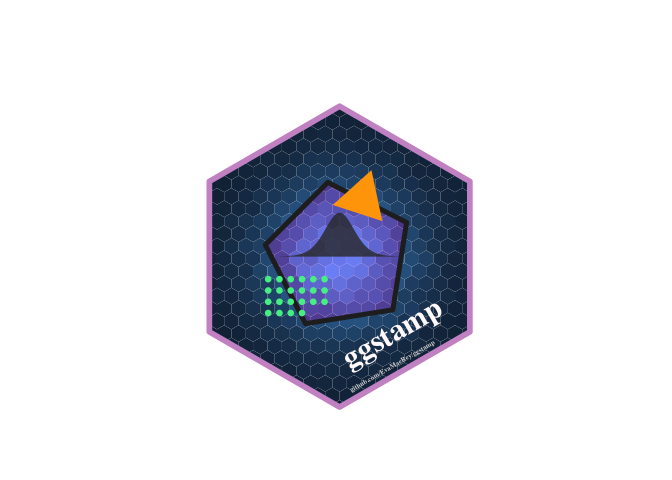
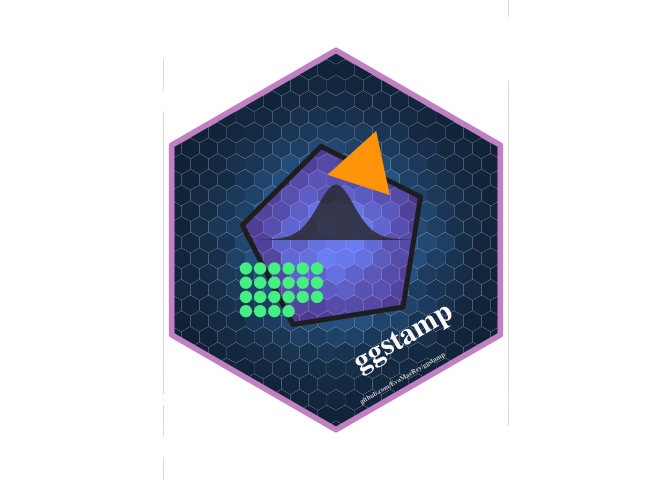
update readme

Changed region(s): [[0.25, 0.0938, 0.75, 0.9062]]

diff --git a/README.md b/README.md
@@ -91,9 +91,9 @@ tibble::tibble(x = rnorm(40000, sd = .7),
   ggplot() + 
   aes(x = x, y = y) +
   geom_hex(show.legend = F, color = alpha("white", 0)) + 
-  coord_equal() + 
-  stamp_polygon_inverse(radius = 2, radius_outer = Inf
-                        ) + 
+  coord_equal(xlim = c(-1.65,1.65), ylim = c(-2.3, 2.3)) + 
+  stamp_polygon_inverse(radius = 2, radius_outer = Inf, fill = "white"
+                        ) +
   stamp_polygon(alpha = .2, n = 5, size = 1.75,
                 fill = "magenta", color = "grey15",
                 rotation = -.55) + 
@@ -111,8 +111,13 @@ tibble::tibble(x = rnorm(40000, sd = .7),
                 color = "plum3") + 
   theme_void() +
   ggxmean::stamp_normal_dist(sd = .2, alpha = .8, height = 1.5) + 
-  stamp_point(xy = pos_wrap(n = 22, ncol = 6, width = .15, x0 = -.95, y0 = -.3), size = 1,
-              color = "seagreen2")
+  stamp_point(xy = pos_wrap(n = 22, ncol = 6, width = .15, x0 = -.95, y0 = -.3), size = 3,
+              color = "seagreen2") ->
+g; g
 ```
 
 <img src="man/figures/README-unnamed-chunk-3-1.png" width="100%" />
+
+``` r
+ggsave("docs/hex_sticker_ggstamp.png")
+```
